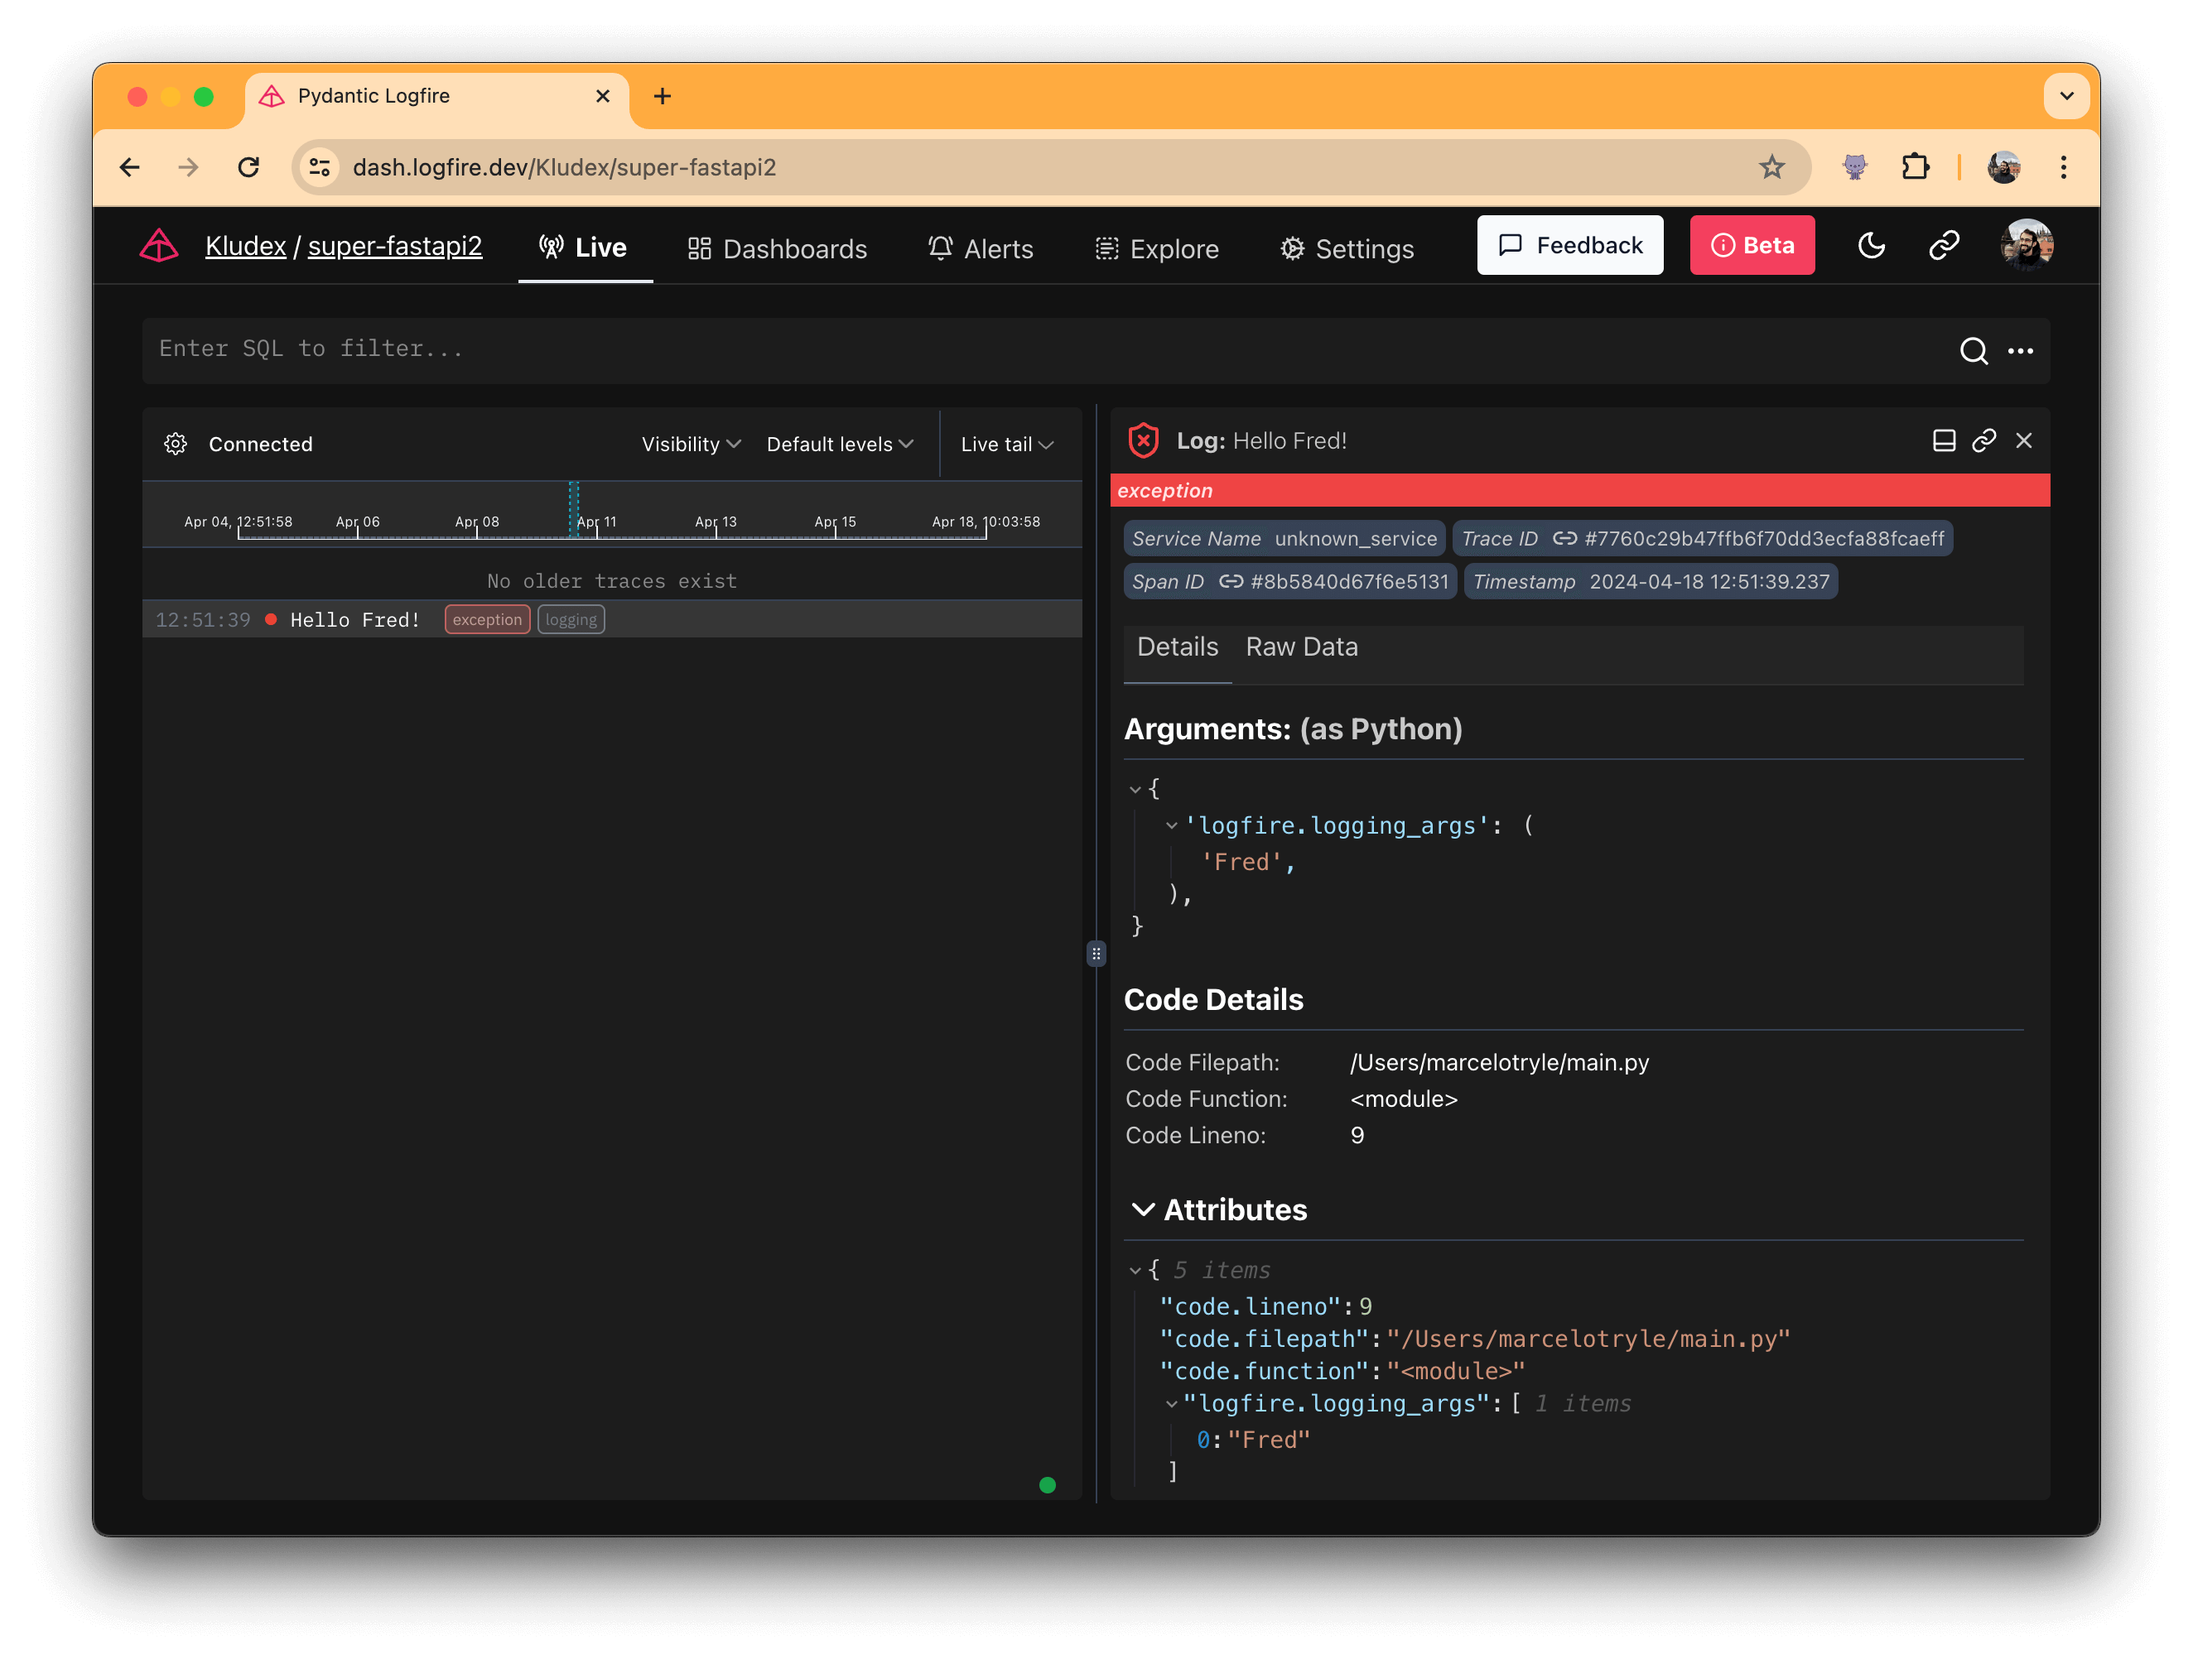
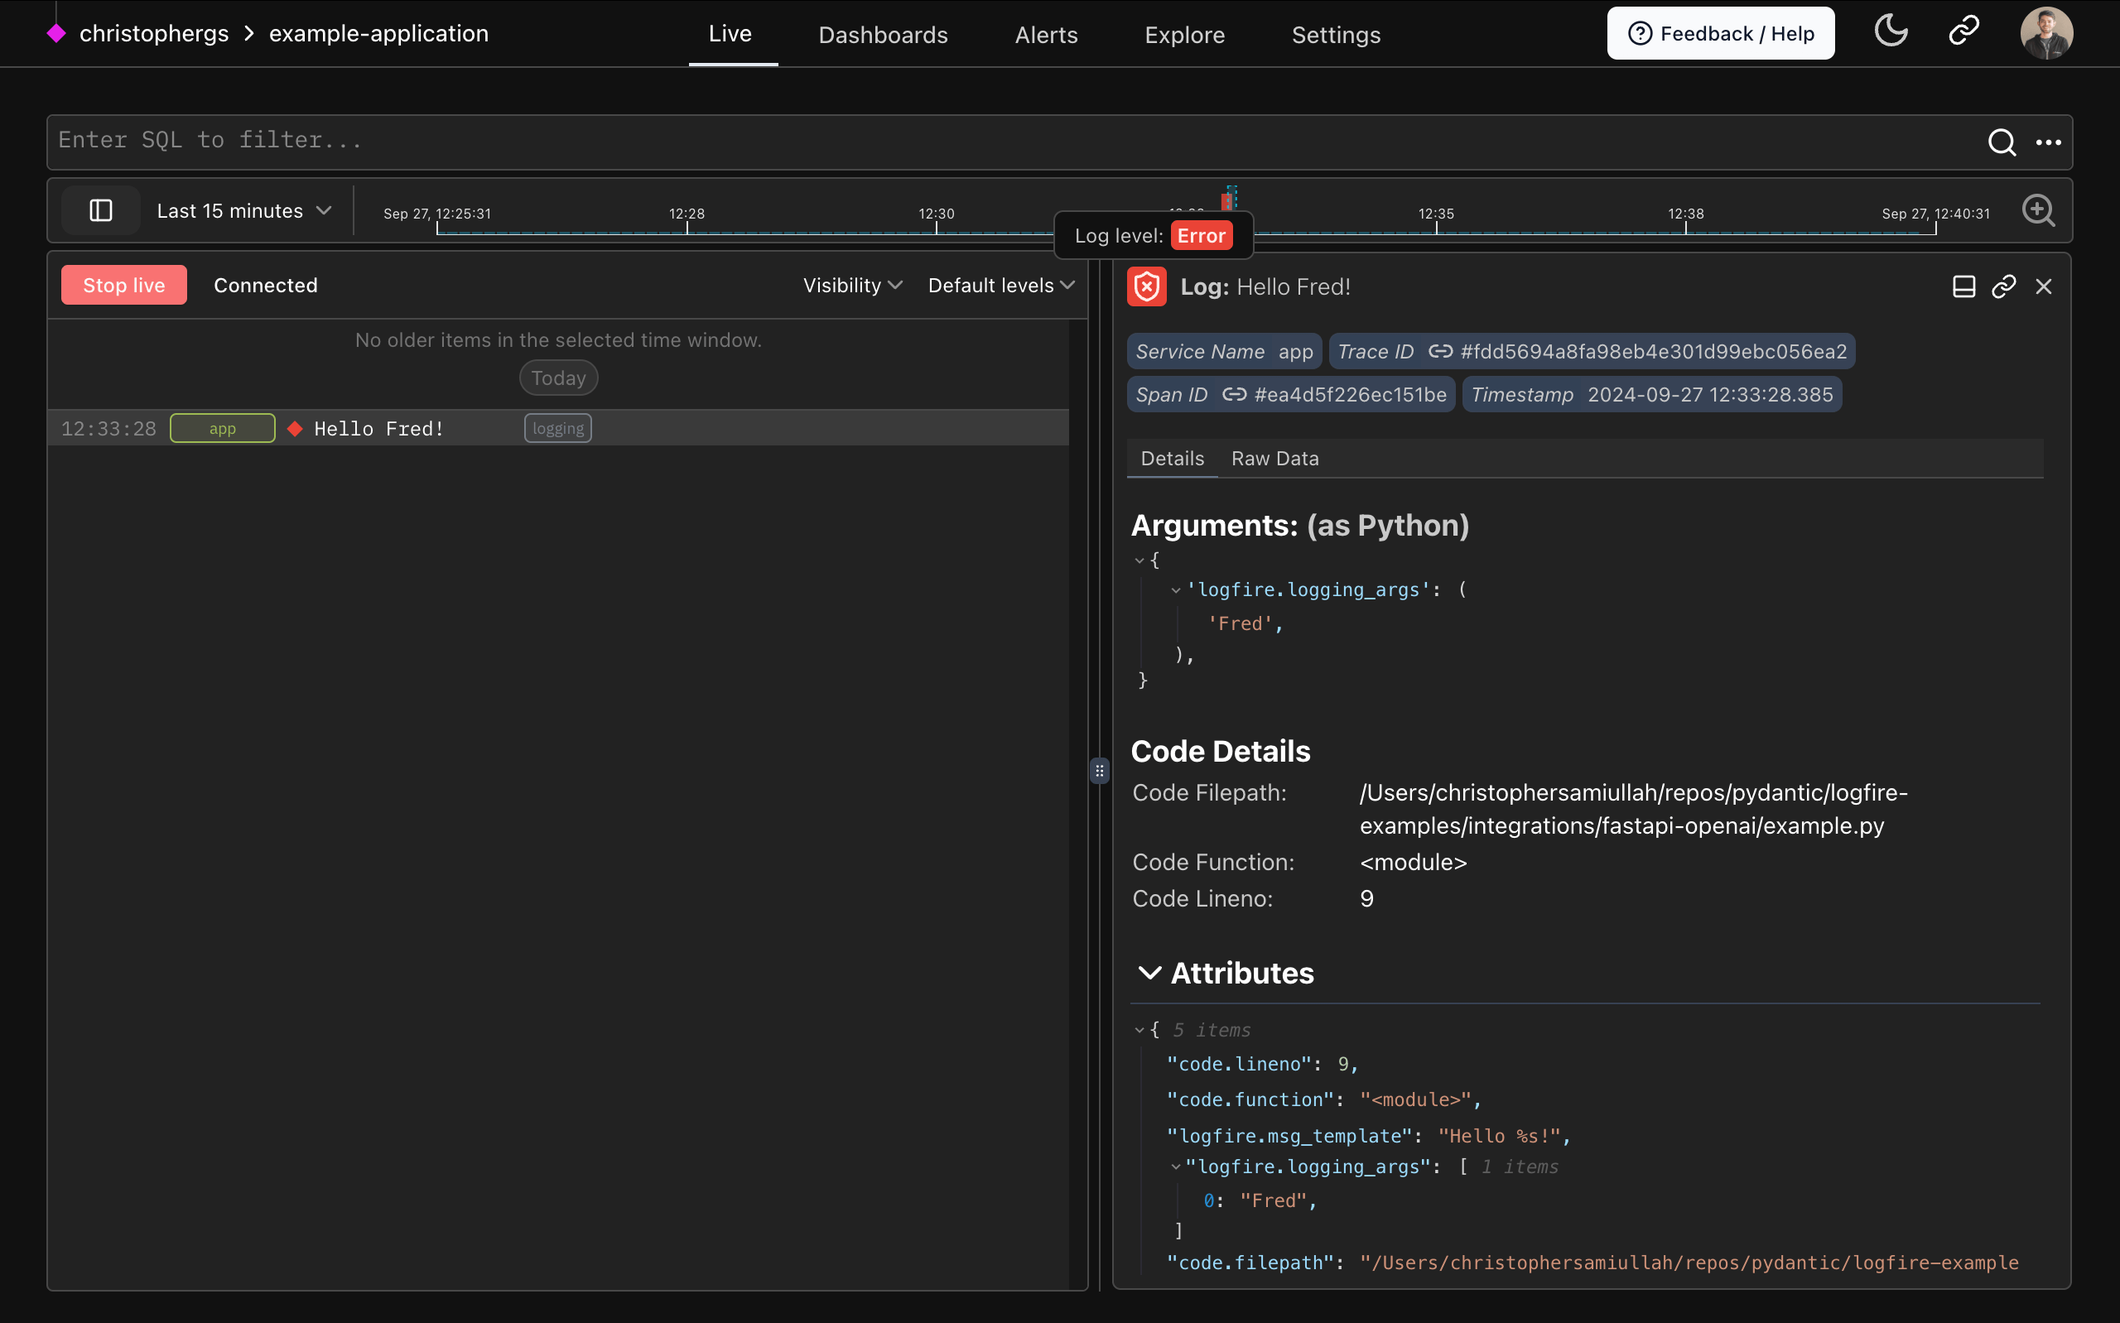
Remove beta from docs (#447)

diff --git a/docs/overrides/main.html b/docs/overrides/main.html
@@ -1,15 +1,5 @@
 {% extends "base.html" %}
 
-{% block announce %}
-<strong>Pydantic Logfire</strong> is in open beta. Please learn more and try it <a
-  href="https://pydantic.dev/logfire">here</a>, and come join our
-  <a
-    href="https://join.slack.com/t/pydanticlogfire/shared_invite/zt-2b57ljub4-936siSpHANKxoY4dna7qng"
-  >
-    Slack Channel
-  </a>. Feedback and questions are welcome! 🚀
-{% endblock %}
-
 {% block content %}
 {{ super() }}
 <script src="/flarelytics/client.js"></script>

diff --git a/docs/guides/web-ui/live.md b/docs/guides/web-ui/live.md
@@ -14,7 +14,7 @@ This is what you'll see when you come to the live view of a project with some da
 
 2. **Project pages:** These are links to the various project-specific pages, including the Live, [Dashboards](./dashboards.md), [Alerts](./alerts.md), [Explore](./explore.md), and Settings pages.
 
-3. **Feedback and Beta buttons:** Click the feedback button to provide us feedback.
+3. **Feedback button:** Click the feedback button to provide us feedback.
 
 4. **Light/Dark mode toggle:** Cycles between light, dark, and system — because everyone seems to have an opinion on this :smile:
 
